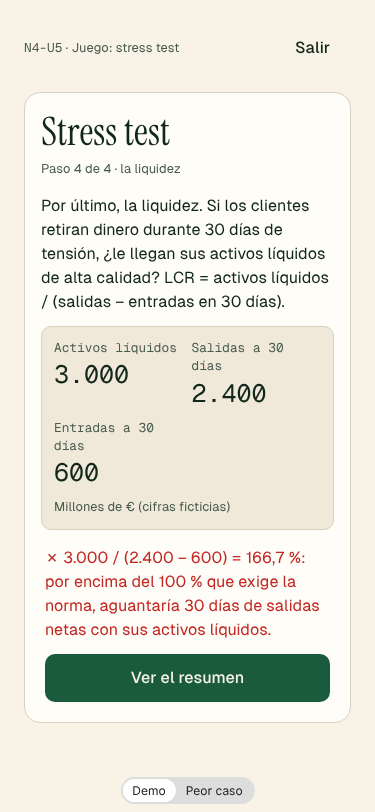
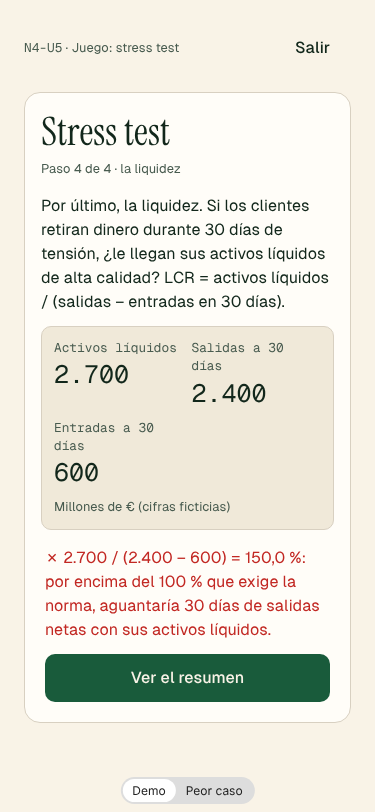
content: n4-u5, correcciones de la ronda 1 de revisión (pérdidas del motor, l1, test de salto, simplificaciones y MDA)
Claude-Session: https://claude.ai/code/session_01MmSrs1YdgLJhPMsRgWQM9q

diff --git a/src/engine/games/stress-test.test.ts b/src/engine/games/stress-test.test.ts
@@ -16,21 +16,21 @@ import {
 } from './stress-test';
 
 describe('Stress test', () => {
-  it('semilla 0: margen de 620, CET1 del 13,1 %, 8,2 % estresado y LCR del 166,7 %', () => {
+  it('semilla 0: margen de 620, CET1 del 13,0 %, 8,2 % estresado y LCR del 150,0 %', () => {
     const s = setupStress(0);
     expect(nii(s)).toBe(620);
     expect(niiOptions(s)).toEqual([600, 620, 800]);
     expect(apr(s)).toBe(12_200);
-    expect(cet1Ratio(s)).toBe(13.1);
-    expect(cet1Options(s)).toEqual([8, 10.8, 13.1]);
+    expect(cet1Ratio(s)).toBe(13);
+    expect(cet1Options(s)).toEqual([8, 10.7, 13]);
     expect(stressedRatio(s)).toBe(8.2);
-    expect(stressOptions(s)).toEqual([8.2, 9, 11.9]);
-    expect(lcr(s)).toBe(166.7);
-    expect(lcrOptions(s)).toEqual([60, 125, 166.7]);
+    expect(stressOptions(s)).toEqual([8.2, 9, 11.8]);
+    expect(lcr(s)).toBe(150);
+    expect(lcrOptions(s)).toEqual([66.7, 112.5, 150]);
   });
 
-  it('en todas las semillas: opciones distintas con la buena y cifras realistas', () => {
-    for (let seed = 0; seed <= 80; seed++) {
+  it('en 10.000 semillas: opciones distintas con la buena y cifras realistas', () => {
+    for (let seed = 0; seed < 10_000; seed++) {
       const s = setupStress(seed);
       expect(setupStress(seed)).toEqual(s);
       expect(s.mortgages + s.corporates).toBe(s.loans);
@@ -60,9 +60,9 @@ describe('Stress test', () => {
 
   it('nota y cifras para la lección', () => {
     const s = setupStress(0);
-    const best = { nii: 620, cet1: 13.1, stressed: 8.2, lcr: 166.7 };
+    const best = { nii: 620, cet1: 13, stressed: 8.2, lcr: 150 };
     expect(stressResult(s, best).score).toBe(1);
-    expect(stressResult(s, { ...best, lcr: 125 }).score).toBe(0.75);
+    expect(stressResult(s, { ...best, lcr: 112.5 }).score).toBe(0.75);
     expect(stressValues(s, best)).toEqual({
       loans: 20_000,
       deposits: 18_000,
@@ -72,15 +72,18 @@ describe('Stress test', () => {
       mortgages: 12_000,
       corporates: 8_000,
       apr: 12_200,
-      cet1: 1_600,
-      cet1_ratio: 13.1,
-      losses: 500,
+      cet1: 1_590,
+      k_cet1: 0.13,
+      m_loss: 0.04,
+      k_hqla: 1.5,
+      cet1_ratio: 13,
+      losses: 490,
       apr_rise: 10,
       stressed_ratio: 8.2,
-      hqla: 3_000,
+      hqla: 2_700,
       outflows: 2_400,
       inflows: 600,
-      lcr: 166.7,
+      lcr: 150,
       hits: 4,
     });
     expect(stressValues(s, { nii: 0, cet1: 0, stressed: 0, lcr: 0 }).hits).toBe(0);

diff --git a/tests/stress-game.test.tsx b/tests/stress-game.test.tsx
@@ -11,35 +11,35 @@ describe('Stress test (interfaz)', () => {
     await user.click(screen.getByRole('radio', { name: /^620\sM€$/ }));
     expect(screen.getByTestId('sg-why')).toHaveTextContent('✓');
     await user.click(screen.getByRole('button', { name: 'Siguiente' }));
-    await user.click(screen.getByRole('radio', { name: /^13,1\s%$/ }));
+    await user.click(screen.getByRole('radio', { name: /^13,0\s%$/ }));
     expect(screen.getByTestId('sg-why')).toHaveTextContent('✓');
     await user.click(screen.getByRole('button', { name: 'Siguiente' }));
     await user.click(screen.getByRole('radio', { name: /^8,2\s%$/ }));
     expect(screen.getByTestId('sg-why')).toHaveTextContent('por encima del 7');
     await user.click(screen.getByRole('button', { name: 'Siguiente' }));
-    await user.click(screen.getByRole('radio', { name: /^166,7\s%$/ }));
+    await user.click(screen.getByRole('radio', { name: /^150,0\s%$/ }));
     expect(screen.getByTestId('sg-why')).toHaveTextContent('✓');
     await user.click(screen.getByRole('button', { name: 'Ver el resumen' }));
     expect(screen.getByTestId('sg-verdict')).toHaveTextContent('Banco bajo control');
     await user.click(screen.getByRole('button', { name: 'Ver qué ha pasado' }));
     expect(onDone.mock.calls[0]![0]).toMatchObject({
       nii: 620,
-      cet1_ratio: 13.1,
+      cet1_ratio: 13,
       stressed_ratio: 8.2,
-      lcr: 166.7,
+      lcr: 150,
       hits: 4,
     });
   });
 
   it('el peor caso cae por debajo del 7 % y un fallo se marca', async () => {
     const user = userEvent.setup();
-    render(<StressGame seed={244} onDone={() => {}} />);
-    await user.click(screen.getByRole('radio', { name: /^720\sM€$/ }));
+    render(<StressGame seed={383} onDone={() => {}} />);
+    await user.click(screen.getByRole('radio', { name: /^960\sM€$/ }));
     expect(screen.getByTestId('sg-why')).toHaveTextContent('✗');
     await user.click(screen.getByRole('button', { name: 'Siguiente' }));
     await user.click(screen.getByRole('radio', { name: /^12,0\s%$/ }));
     await user.click(screen.getByRole('button', { name: 'Siguiente' }));
-    await user.click(screen.getByRole('radio', { name: /^6,9\s%$/ }));
+    await user.click(screen.getByRole('radio', { name: /^6,1\s%$/ }));
     expect(screen.getByTestId('sg-why')).toHaveTextContent('cae por debajo del 7');
   });
 });

diff --git a/src/engine/games/stress-test.ts b/src/engine/games/stress-test.ts
@@ -29,6 +29,10 @@ export interface StressSetup {
   mortgages: number;
   corporates: number;
   cet1: number;
+  /** Proporciones con las que se sortean el CET1 y las pérdidas (sobre los APR) y los activos líquidos (sobre las salidas netas). */
+  kCet1: number;
+  mLoss: number;
+  kHqla: number;
   /** Escenario adverso: pérdidas (M€) y subida de los APR (%). */
   losses: number;
   aprRise: number;
@@ -52,10 +56,13 @@ export function setupStress(seed: number): StressSetup {
       rDeposits: 1,
       mortgages: 12_000,
       corporates: 8_000,
-      cet1: 1_600,
-      losses: 500,
+      kCet1: 0.13,
+      mLoss: 0.04,
+      kHqla: 1.5,
+      cet1: 1_590,
+      losses: 490,
       aprRise: 10,
-      hqla: 3_000,
+      hqla: 2_700,
       outflows: 2_400,
       inflows: 600,
     };
@@ -67,6 +74,10 @@ export function setupStress(seed: number): StressSetup {
   const apr = (mortgages * W_MORTGAGE + corporates * W_CORPORATE) / 100;
   const outflows = pick(rnd, [2_000, 2_400, 2_800]);
   const inflows = pick(rnd, [400, 600, 800]);
+  const kCet1 = pick(rnd, [0.12, 0.13, 0.14, 0.15]);
+  // desde el 2,5 %: con un 2 %, en algún banco las pérdidas igualaban un distractor
+  const mLoss = pick(rnd, [0.025, 0.03, 0.04, 0.05]);
+  const kHqla = pick(rnd, [1.1, 1.3, 1.5, 1.8]);
   return {
     seed,
     loans,
@@ -75,10 +86,13 @@ export function setupStress(seed: number): StressSetup {
     rDeposits: pick(rnd, [0.5, 1, 1.5]),
     mortgages,
     corporates,
-    cet1: round10(apr * pick(rnd, [0.12, 0.13, 0.14, 0.15])),
-    losses: round10(apr * pick(rnd, [0.02, 0.03, 0.04, 0.05])),
+    kCet1,
+    mLoss,
+    kHqla,
+    cet1: round10(apr * kCet1),
+    losses: round10(apr * mLoss),
     aprRise: pick(rnd, [5, 10, 15]),
-    hqla: round10((outflows - inflows) * pick(rnd, [1.1, 1.3, 1.5, 1.8])),
+    hqla: round10((outflows - inflows) * kHqla),
     outflows,
     inflows,
   };
@@ -177,6 +191,9 @@ export function stressValues(s: StressSetup, a: StressAnswer): Record<string, nu
     corporates: s.corporates,
     apr: apr(s),
     cet1: s.cet1,
+    k_cet1: s.kCet1,
+    m_loss: s.mLoss,
+    k_hqla: s.kHqla,
     cet1_ratio: cet1Ratio(s),
     losses: s.losses,
     apr_rise: s.aprRise,

diff --git a/src/features/games/worst-seeds.ts b/src/features/games/worst-seeds.ts
@@ -25,7 +25,7 @@ export const WORST_SEEDS: Record<LessonGameKind, number> = {
   'bank-window': 0,
   'macro-day': 0,
   'ecb-meeting': 0,
-  'stress-test': 244, // préstamos de 24.000 M€ y el CET1 estresado por debajo del 7 % (6,9 %)
+  'stress-test': 383, // préstamos de 24.000 M€ y el CET1 estresado por debajo del 7 % (6,1 %)
   'fx-desk': 203, // exportaciones de 340 con déficit corriente, EUR/USD 1,12 y el país A vulnerable
   'risk-premium': 1453, // recesión con PIB de 1.200, Bund al 2,35 % y la prima más alta (245 pb)
   'cheap-or-dear': 3, // precios con más dígitos y los tres veredictos

diff --git a/e2e/leccion-juego.spec.ts b/e2e/leccion-juego.spec.ts
@@ -1092,7 +1092,7 @@ test('stress test: captura y axe a 375 px en cada paso y lección completa con t
   await expect(page.getByTestId('sg-why')).toContainText('✗');
   await page.getByRole('button', { name: 'Siguiente' }).click();
   await scan('cet1');
-  await page.getByRole('radio', { name: /^13,1\s%$/ }).click();
+  await page.getByRole('radio', { name: /^13,0\s%$/ }).click();
   await expect(page.getByTestId('sg-why')).toContainText('✓');
   await page.getByRole('button', { name: 'Siguiente' }).click();
   await scan('estrés');

diff --git a/src/engine/games/lesson-games.ts b/src/engine/games/lesson-games.ts
@@ -521,6 +521,9 @@ export const LESSON_GAME_FORMATS: Record<LessonGameKind, Record<string, Format>>
     corporates: [0, 0],
     apr: [0, 0],
     cet1: [0, 0],
+    k_cet1: [2, 2],
+    m_loss: [3, 3],
+    k_hqla: [1, 1],
     cet1_ratio: [1, 1],
     losses: [0, 0],
     apr_rise: [0, 0],

diff --git a/docs/specs/stress-test.md b/docs/specs/stress-test.md
@@ -5,13 +5,13 @@ Motor: `src/engine/games/stress-test.ts`. Interfaz: `src/features/games/StressGa
 ## Reglas
 - Albufera Partners, que es un banco de inversión, asesora a **Banca Malvarrosa**, un banco comercial ficticio, en plena crisis. Cifras en millones de €. La ficha de JUEGOS.md («diriges Albufera Partners») se adapta así porque Albufera no capta depósitos ni da préstamos.
 - **Paso 1 (margen de intereses):** préstamos × tipo − depósitos × tipo. Semilla 0: 20.000 × 4 % − 18.000 × 1 % = 620. Distractores: 600 (el diferencial por los préstamos) y 800 (solo lo cobrado).
-- **Paso 2 (ratio CET1):** APR = hipotecas × 35 % + empresas × 100 % (ponderaciones simplificadas del método estándar); CET1 / APR con 1 decimal. Semilla 0: 12.000 × 35 % + 8.000 = 12.200 de APR; 1.600 / 12.200 = 13,1 %. Distractores: 8,0 % (sobre los préstamos sin ponderar) y 10,8 % (ponderaciones al revés). Las hipotecas son el 60 o el 70 % de los préstamos, nunca el 50 %, para que las ponderaciones al revés den otro resultado.
-- **Paso 3 (escenario adverso):** (CET1 − pérdidas) / (APR × (1 + subida)). Semilla 0: 1.100 / 13.420 = 8,2 %. Distractores: 9,0 % (sin subir los APR) y 11,9 % (sin restar las pérdidas). La explicación lo compara con el 7 % (4,5 % de pilar 1 + 2,5 % de colchón de conservación); las semillas incluyen bancos que se quedan por debajo.
-- **Paso 4 (LCR):** activos líquidos / (salidas − entradas a 30 días). Semilla 0: 3.000 / 1.800 = 166,7 %. Distractores: 125,0 % (sin restar las entradas) y 60,0 % (el cociente al revés). El LCR siempre supera el 100 %.
-- Rangos: préstamos de 16.000 a 24.000; CET1 del 12 al 15 % de los APR; pérdidas del 2 al 5 % de los APR; subida de los APR del 5, 10 o 15 %.
+- **Paso 2 (ratio CET1):** APR = hipotecas × 35 % + empresas × 100 % (ponderaciones simplificadas del método estándar); CET1 / APR con 1 decimal. Semilla 0: 12.000 × 35 % + 8.000 = 12.200 de APR; 1.590 / 12.200 = 13,0 %. Distractores: 8,0 % (sobre los préstamos sin ponderar) y 10,7 % (ponderaciones al revés). Las hipotecas son el 60 o el 70 % de los préstamos, nunca el 50 %, para que las ponderaciones al revés den otro resultado.
+- **Paso 3 (escenario adverso):** (CET1 − pérdidas) / (APR × (1 + subida)). Semilla 0: (1.590 − 490) / 13.420 = 8,2 %. Distractores: 9,0 % (sin subir los APR) y 11,8 % (sin restar las pérdidas). La explicación lo compara con el 7 % (4,5 % de pilar 1 + 2,5 % de colchón de conservación); las semillas incluyen bancos que se quedan por debajo.
+- **Paso 4 (LCR):** activos líquidos / (salidas − entradas a 30 días). Semilla 0: 2.700 / 1.800 = 150,0 %. Distractores: 112,5 % (sin restar las entradas) y 66,7 % (el cociente al revés). El LCR siempre supera el 100 %.
+- Rangos: préstamos de 16.000 a 24.000; CET1 = APR × 12, 13, 14 o 15 %; pérdidas = APR × 2,5, 3, 4 o 5 % (desde el 2,5 % para que ningún distractor coincida: comprobado en 10.000 semillas); activos líquidos = salidas netas × 1,1, 1,3, 1,5 o 1,8; los tres redondeados a decenas. Subida de los APR del 5, 10 o 15 %.
 - Nota: un cuarto por paso.
-- Cifras para la lección (`stressValues`): `loans`, `deposits`, `r_loans`, `r_deposits`, `nii`, `mortgages`, `corporates`, `apr`, `cet1`, `cet1_ratio`, `losses`, `apr_rise`, `stressed_ratio`, `hqla`, `outflows`, `inflows`, `lcr` y `hits`.
-- Peor caso (`worst-seeds.ts`): semilla 244, préstamos de 24.000 y un CET1 estresado del 6,9 %.
+- Cifras para la lección (`stressValues`): `loans`, `deposits`, `r_loans`, `r_deposits`, `nii`, `mortgages`, `corporates`, `apr`, `cet1`, `k_cet1`, `m_loss`, `k_hqla`, `cet1_ratio`, `losses`, `apr_rise`, `stressed_ratio`, `hqla`, `outflows`, `inflows`, `lcr` y `hits`.
+- Peor caso (`worst-seeds.ts`): semilla 383, préstamos de 24.000 y un CET1 estresado del 6,1 %.
 
 ## Verificación
 `stress-test.test.ts`, `tests/stress-game.test.tsx`, la rama `stress-test` de `e2e/play-game.ts`, `e2e/leccion-juego.spec.ts` («stress test»), `e2e/peor-caso-juegos.spec.ts` (`n4/u5/l1`) y `e2e/n4u5.spec.ts`.
